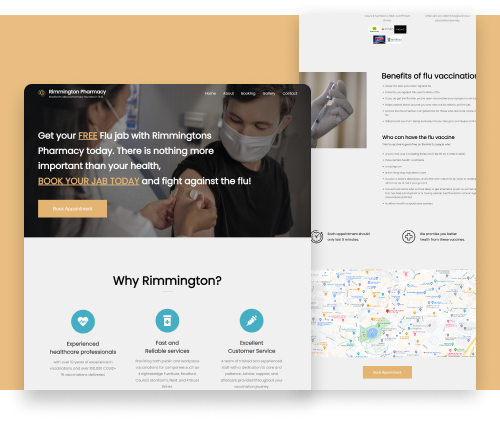
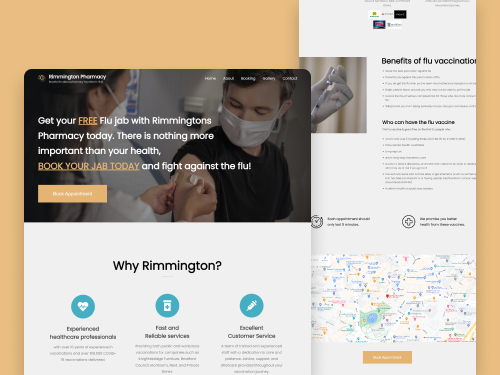
Added my work to home page for mobile

diff --git a/client/src/components/Work/components/Projects.js b/client/src/components/Work/components/Projects.js
@@ -1,0 +1,46 @@
+import React from 'react';
+import css from './projects.module.scss';
+import AdonioImg from '../../../assets/images/adonio.png';
+import Rimmington from '../../../assets/images/rimmington.png';
+
+const Projects = () => {
+  return (
+    <div className={css['projects']}>
+      <Project
+        img={AdonioImg}
+        subTitle={'E-commerce store'}
+        title={"Adonio's sneakers store"}
+      />
+      <Project
+        img={Rimmington}
+        subTitle={'Pharmacy website'}
+        title={'Rimmington - Flu Jab booking'}
+      />
+      <Project
+        img={AdonioImg}
+        subTitle={'E-commerce store'}
+        title={"Adonio's sneakers store"}
+      />
+      <Project
+        img={Rimmington}
+        subTitle={'Pharmacy website'}
+        title={'Rimmington - Flu Jab booking'}
+      />
+    </div>
+  );
+};
+
+const Project = ({ img, subTitle, title }) => {
+  return (
+    <div className={css['project']}>
+      <img src={img} alt='Project thumbnail' />
+
+      <div className={css['project-content']}>
+        <h5>{subTitle}</h5>
+        <h3>{title}</h3>
+      </div>
+    </div>
+  );
+};
+
+export default Projects;

diff --git a/client/src/components/Work/components/projects.module.scss b/client/src/components/Work/components/projects.module.scss
@@ -1,0 +1,40 @@
+@import '../../../assets/scss/global.scss';
+
+.projects {
+  display: flex;
+  flex-direction: column;
+}
+
+.project {
+  width: 100%;
+  margin-top: 6rem;
+
+  &:first-child {
+    margin-top: 0;
+  }
+
+  &:last-child {
+    margin-bottom: 6.8rem;
+  }
+
+  & img {
+    width: 100%;
+  }
+
+  & .project-content {
+    margin-top: 0.88rem;
+
+    & h5 {
+      font-size: 0.78rem;
+      font-weight: 400;
+      color: $dark;
+    }
+
+    & h3 {
+      font-size: 1.3rem;
+      font-weight: 400;
+      color: $second;
+      text-shadow: 0px 2px 5px 0px rgb(255, 255, 255, 25);
+    }
+  }
+}

diff --git a/client/src/components/Work/work.module.scss b/client/src/components/Work/work.module.scss
@@ -1,0 +1,28 @@
+@import '../../assets/scss/global.scss';
+
+.work {
+  padding: 4rem $padding 0 $padding;
+
+  & h2 {
+    margin-bottom: 2rem;
+
+    font-size: 2.1rem;
+    font-weight: 500;
+    color: $second;
+
+    & span {
+      color: $lighter-bg;
+    }
+  }
+
+  & a {
+    display: block;
+    text-align: center;
+    
+    padding: 0.8rem 0;
+
+    border: 1px $second solid;
+    text-decoration: none;
+    color: $second;
+  }
+}

diff --git a/client/src/components/Work/Work.js b/client/src/components/Work/Work.js
@@ -1,0 +1,20 @@
+import React from 'react';
+import css from './work.module.scss';
+import Projects from './components/Projects';
+import { Link } from 'react-router-dom';
+
+const Work = () => {
+  return (
+    <section className={css['work']}>
+      <h2>
+        Our Recent Work<span>.</span>
+      </h2>
+
+      <Projects />
+
+      <Link to={'/'}>View all our work (5)</Link>
+    </section>
+  );
+};
+
+export default Work;

diff --git a/client/src/pages/Home/Home.js b/client/src/pages/Home/Home.js
@@ -3,6 +3,7 @@ import Navbar from '../../components/Navbar/Navbar';
 import Landing from './component/Landing';
 import Preview from './component/Preview';
 import Goal from './component/Goal';
+import Work from '../../components/Work/Work';
 
 const Home = () => {
   useEffect(() => {
@@ -20,6 +21,7 @@ const Home = () => {
       <Landing />
       <Preview />
       <Goal />
+      <Work />
     </>
   );
 };

diff --git a/client/src/pages/Home/component/preview.module.scss b/client/src/pages/Home/component/preview.module.scss
@@ -16,8 +16,7 @@
 
   & img {
     width: 15.8rem;
-    height: 14rem;
-    margin-top: 0.75rem;
+    height: 12.6rem;
 
     &:first-child {
       margin-right: 0.56rem;

diff --git a/client/src/pages/Home/component/goal.module.scss b/client/src/pages/Home/component/goal.module.scss
@@ -26,6 +26,7 @@
 
   & .goal-lamp {
     position: relative;
+    margin-bottom: 10rem;
 
     & svg {
       margin: 1.5rem 0 0 0;
